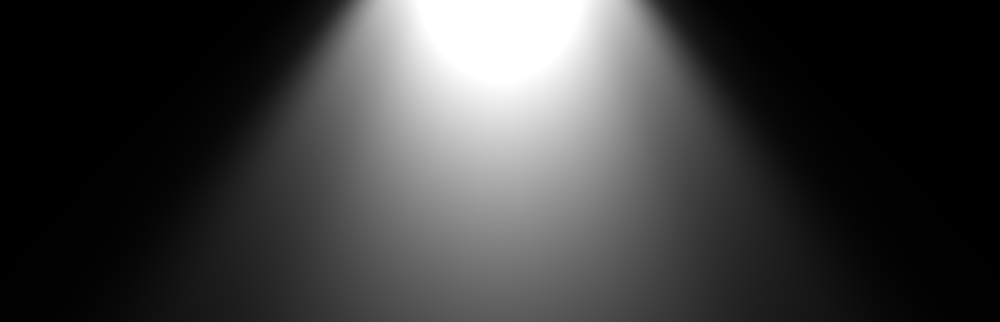
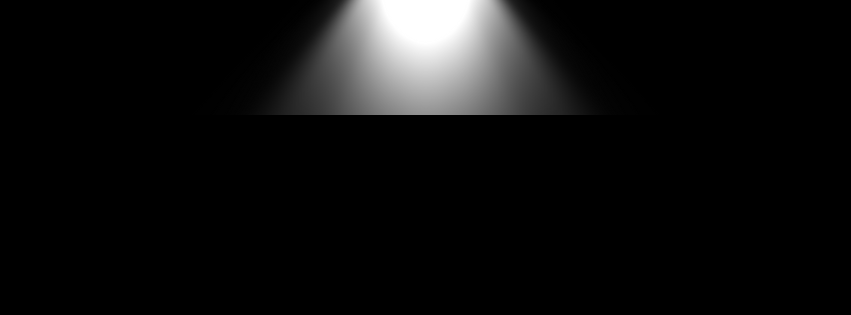
landing page feat: opening section

diff --git a/src/app/landing/page.tsx b/src/app/landing/page.tsx
@@ -1,6 +1,7 @@
 import { Button } from "@littlewheel/components/ui/button";
 import { ScrollArea } from "@littlewheel/components/ui/scroll-area";
 import Image from "next/image";
+import { PiCalendarBlank } from "react-icons/pi";
 
 const navigationList = [
   { id: 1, title: "Home", link: "/" },
@@ -14,8 +15,8 @@ export default function Page() {
   return (
     <div className="h-screen bg-primary w-full text-secondary m-0 p-0">
       <header className="px-10 py-4 flex items-center justify-between">
-        <div className="flex items-center gap-2">
-          <Image src="/uploads/littlewheel.png" alt="" width={30} height={30} />
+        <div className="flex items-center ">
+          <Image src="/uploads/littlewheel.png" alt="" width={40} height={40} />
           <h1 className="text-2xl font-bold">LITTLEWHEEL</h1>
         </div>
         <nav className="flex gap-10">
@@ -29,20 +30,116 @@ export default function Page() {
           Download App Now
         </Button>
       </header>
-      <ScrollArea className="h-[89.2%]">
-        <div className="bg-[url(/uploads/spotlight.png)] bg-contain bg-no-repeat rounded-3xl h-full text-white flex items-end">
-          <div className="w-full h-3/5 bg-black border-b-0 rounded-3xl text-center">
-            <h1 className="text-4xl font-extrabold -mt-16">
+
+      <ScrollArea className="h-[88.6%]">
+        <div className="bg-spotlight bg-contain bg-no-repeat rounded-3xl h-full text-white flex items-end">
+          <div className="w-full h-3/5 bg-black rounded-b-3xl flex flex-col items-center">
+            <h1 className="text-4xl font-extrabold -mt-28 text-center">
               Build Financial Freedom
               <br />
               with the Little Wheel
             </h1>
-            <p className="text-xs text-white/80">
+            <p className="text-xs text-white/80  text-center">
               Unlock your financial potential with tools and services designed
               <br />
               for every journey and dream.
             </p>
+            <div className="w-[85%] h-[85%] bg-imagecard bg-cover rounded-3xl my-4 flex flex-col justify-between px-8">
+              <Image
+                src="/uploads/rounded-little.svg"
+                alt=""
+                width={30}
+                height={30}
+              />
+
+              <div className="flex items-end justify-between pb-6">
+                <div className="flex gap-4 p-4 max-w-[40%] rounded-lg bg-white text-black">
+                  <img
+                    src="/uploads/donation-image.jpeg"
+                    alt="Donation Campaign"
+                    className="rounded-md"
+                    style={{ aspectRatio: "1/1", width: "30%" }}
+                  />
+                  <div className="space-y-1">
+                    <div className="w-1/2 rounded-lg p-3 bg-[#E3EFFC] flex items-center gap-2">
+                      <Image
+                        src="/uploads/charity.svg"
+                        alt=""
+                        width={20}
+                        height={20}
+                      />
+                      <span className="text-xs">Charity</span>
+                    </div>
+                    <h2 className="text-sm font-semibold">
+                      Donation for Booking Campaign
+                    </h2>
+                    <p className="text-xs text-gray-500">
+                      ₦21,200 funds raised from ₦100,000
+                    </p>
+                    <div className="w-full h-2 bg-gray-200 rounded-full">
+                      <div
+                        className="h-full bg-green-500 rounded-full"
+                        style={{ width: "21.2%" }}
+                      ></div>
+                    </div>
+
+                    <div className="flex items-center justify-between">
+                      <div className="flex items-center">
+                        {[
+                          "/uploads/avatar1.png",
+                          "/uploads/avatar2.png",
+                          "/uploads/avatar3.png",
+                        ].map((profileImage, index) => (
+                          <img
+                            key={index}
+                            src={profileImage}
+                            alt={`Donor ${index + 1}`}
+                            className={`w-8 h-8 rounded-full -ml-2 ${
+                              index === 0 ? "ml-0" : ""
+                            }`}
+                          />
+                        ))}
+                        <span className="text-xs w-8 h-8 rounded-full bg-[#ffece5] flex items-center justify-center -ml-2">
+                          +10
+                        </span>
+                      </div>
+                      <div className="flex items-center gap-1">
+                        <PiCalendarBlank size={22} />
+                        <p className="text-xs">200 days left</p>
+                      </div>
+                    </div>
+                  </div>
+                </div>
+
+                <div className="w-[30%] flex flex-col space-y-2">
+                  <p className="">Personal savings</p>
+                  <div className="flex gap-4 p-4 rounded-lg bg-white text-black">
+                    <img
+                      src="/uploads/bookdoor.jpeg"
+                      alt="Donation Campaign"
+                      className="rounded-md"
+                      style={{ aspectRatio: "1/1", width: "20%" }}
+                    />
+                    <div className="space-y-1">
+                      <h2 className="text-sm font-semibold">
+                        New Shoe for Christmas
+                      </h2>
+                      <p className="text-xs text-gray-500">
+                        ₦21,200 funds raised from ₦100,000
+                      </p>
+                      <div className="w-full h-2 bg-gray-200 rounded-full">
+                        <div
+                          className="h-full bg-green-500 rounded-full"
+                          style={{ width: "21.2%" }}
+                        ></div>
+                      </div>
+                    </div>
+                  </div>
+                </div>
+              </div>
+            </div>
           </div>
+
           <div className="absolute right-0 top-1/3 transform -translate-y-1/2">
             <Image
               src="/uploads/boxed-circle.svg"

diff --git a/tailwind.config.ts b/tailwind.config.ts
@@ -9,10 +9,11 @@ const config: Config = {
   ],
   theme: {
     extend: {
+      backgroundImage: {
+        spotlight: "url('/uploads/spotlight.png')",
+        imagecard: "url('/uploads/imagecard.jpeg')",
+      },
       colors: {
-        clipPath: {
-          radial: "circle(50% at 50% 50%)",
-        },
         background: "hsl(var(--background))",
         foreground: "hsl(var(--foreground))",
         card: {
